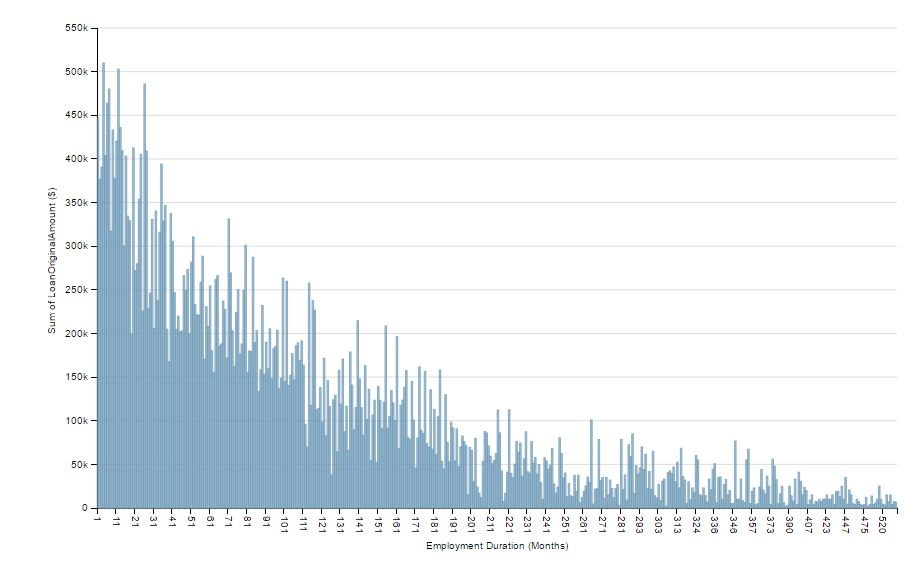
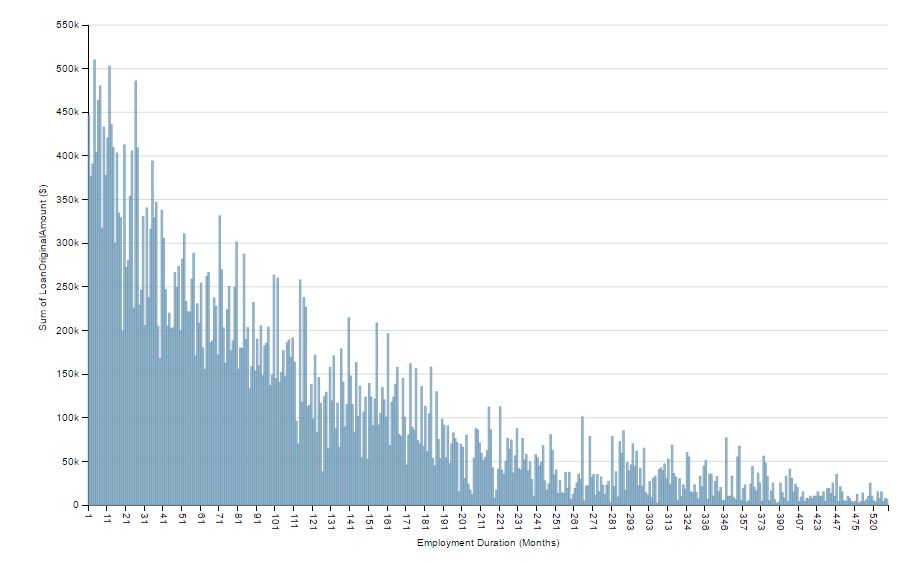
Added cleanAxis function to clear x axis
Added cleanAxis function to clear x axis

Changed region(s): [[0.0307, 0.0604, 0.9825, 0.9964], [0.0614, 0.0302, 0.0921, 0.0604]]

diff --git a/index3.html b/index3.html
@@ -81,36 +81,7 @@
             /*Define chart type  */
             myChart1.addSeries(null, dimple.plot.bar);
             myChart1.draw();
-             // Invoke the cleaning algorithm to draw 1 label in every 20
-            cleanAxis(x1, 10);
         };
-        // Pass in an axis object and an interval.
-         var cleanAxis = function (axis, oneInEvery) {
-             // This should have been called after draw, otherwise do nothing
-             if (axis.shapes.length > 0) {
-                 // Leave the first label
-                 var del = false;
-                 // If there is an interval set
-                 if (oneInEvery > 1) {
-                     // Operate on all the axis text
-                     axis.shapes.selectAll("text")
-                     .each(function (d) {
-                         // Remove all but the nth label
-                         if (del % oneInEvery !== 0) {
-                             this.remove();
-                             // Find the corresponding tick line and remove
-                             axis.shapes.selectAll("line").each(function (d2) {
-                                 if (d === d2) {
-                                     this.remove();
-                                 }
-                             });
-                         }
-                         del += 1;
-                     });
-                 }
-             }
-         };
-
     </script>
 </head>
 
